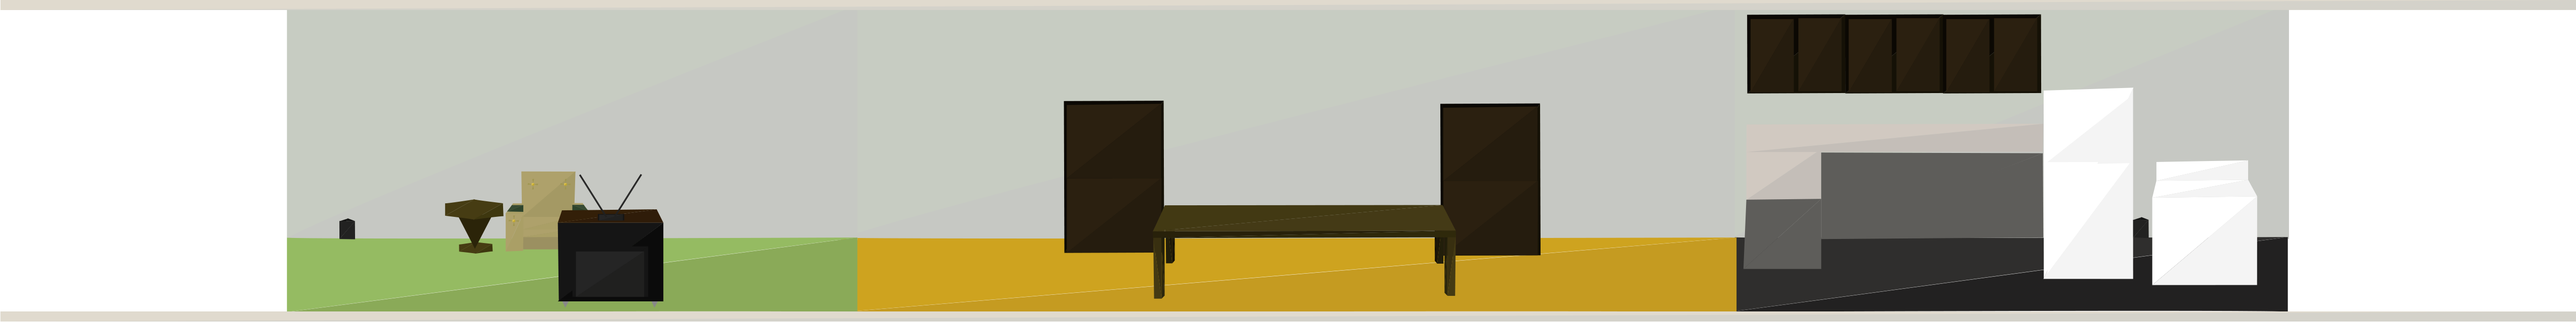
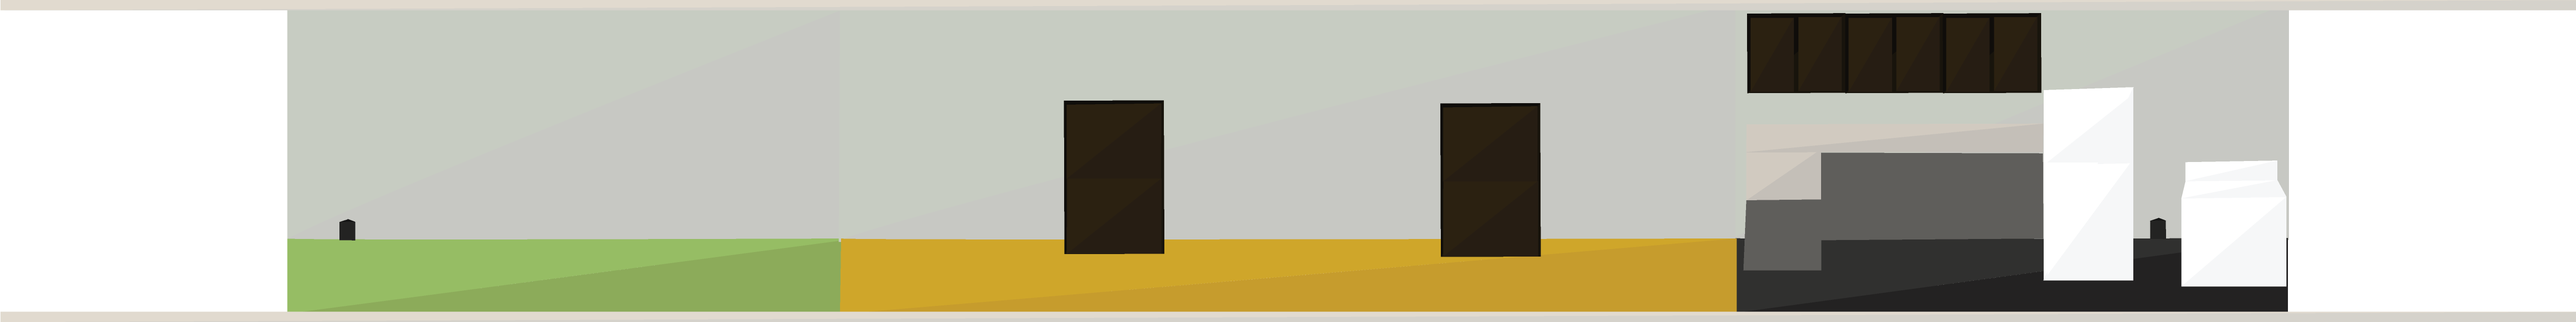
Add owl. Update sprites.

diff --git a/apt-213.js b/apt-213.js
@@ -9,7 +9,8 @@ var manifest = {
 		"tv-chair": "images/table-chair-1f288x161.png",
 		"table-legs": "images/table-legs1f553x51.png",
 		"table-top": "images/table-top1f599x183.png",
-		"cheese": "images/cheese-1f36x29.png"
+		"cheese": "images/cheese-1f36x29.png",
+		"owl": "images/owl-1f132x240.png"
 	},
 	"sounds": {
 	},
@@ -39,6 +40,8 @@ function(context) {
 });
 loading.start();
 
+var owl;
+var cat;
 var player;
 var furniture = [];
 
@@ -88,8 +91,8 @@ function constrainPlayerToFloor(entity) {
 	if (entity.x + entity.width > 4543) {
 		entity.x = 4543 - entity.width;
 	}
-	if (entity.y < 473) {
-		entity.y = 473;
+	if (entity.y < 475) {
+		entity.y = 475;
 	}
 	if (entity.y + entity.height > 618) {
 		entity.y = 618 - entity.height;
@@ -98,19 +101,19 @@ function constrainPlayerToFloor(entity) {
 
 //**************** SCENE 1 ***********************
 function setupScene1() {
-	player = new Splat.AnimatedEntity(673, 540, 40, 8, apt213.images.get("mouse"), -15, -20);
+	player = new Splat.AnimatedEntity(673, 476, 40, 8, apt213.images.get("mouse"), -15, -20);
 	scene1.camera = new Splat.EntityBoxCamera(player, 400, canvas.height, canvas.width/2, canvas.height/2);
 	furniture = [
 		new Splat.Entity(1109, 586, 209, 34), // tv
-		new Splat.Entity(911, 483, 256, 20), // side table
-		new Splat.Entity(2113, 473, 198, 30), // hutch 1
+		new Splat.Entity(911, 488, 256, 25), // side table
+		new Splat.Entity(2113, 473, 198, 32), // hutch 1
 		new Splat.Entity(2290, 581, 23, 13), // table leg front left
 		new Splat.Entity(2314, 512, 18, 11), // table leg back left
 		new Splat.Entity(2868, 579, 21, 9), // table leg front right
 		new Splat.Entity(2848, 515, 18, 9), //table left back right
-		new Splat.Entity(2860, 472, 198, 36), // hutch 2
-		new Splat.Entity(3464, 470, 151, 64), // counter
-		new Splat.Entity(4057, 471, 178, 83), // fridge
+		new Splat.Entity(2860, 472, 198, 38), // hutch 2
+		new Splat.Entity(3464, 473, 151, 64), // counter
+		new Splat.Entity(4057, 474, 178, 83), // fridge
 		new Splat.Entity(4331, 471, 208, 98), // stove
 	];
 	scene1.goal = new Splat.Entity(4269, 472, 31, 9);
@@ -119,7 +122,8 @@ function setupScene1() {
 	scene1.cheese = new Splat.AnimatedEntity(2751, 552, cheeseImg.width, cheeseImg.height, cheeseImg, 0, 0);
 
 	scene1.hasCheese = false;
-	scene1.cat = new Splat.AnimatedEntity(3242, -21, 80, 15, apt213.images.get("cat"), -40, -73);
+	cat = new Splat.AnimatedEntity(3242, -21, 80, 15, apt213.images.get("cat"), -40, -73);
+	owl = new Splat.AnimatedEntity(1046, 523, 100, 20, apt213.images.get("owl"), -20, -220);
 }
 
 function distanceFromCenters(entity1, entity2) {
@@ -139,29 +143,29 @@ scene1 = new Splat.Scene(canvas, function(elapsedMillis) {
 	logMouseClick();
 	handleMovement(elapsedMillis);
 	scene1.cheese.move(elapsedMillis);
-	scene1.cat.move(elapsedMillis);
-	collideWithFurniture(scene1.cat);
+	cat.move(elapsedMillis);
+	collideWithFurniture(cat);
 
 	var chaseRange = 300;
-	if (distanceFromCenters(player, scene1.cat) < chaseRange * chaseRange) {
-		if (player.x < scene1.cat.x) {
-			scene1.cat.vx = -0.7;
+	if (distanceFromCenters(player, cat) < chaseRange * chaseRange) {
+		if (player.x < cat.x) {
+			cat.vx = -0.7;
 		}
-		if (player.x > scene1.cat.x) {
-			scene1.cat.vx = 0.7;
+		if (player.x > cat.x) {
+			cat.vx = 0.7;
 		}
-		if (player.y < scene1.cat.y) {
-			scene1.cat.vy = -0.2;
+		if (player.y < cat.y) {
+			cat.vy = -0.2;
 		}
-		if (player.y > scene1.cat.y) {
-			scene1.cat.vy = 0.2;
+		if (player.y > cat.y) {
+			cat.vy = 0.2;
 		}
 	}
 
 	if (player.collides(scene1.cheese)) {
 		scene1.hasCheese = true;
 	}
-	if (player.collides(scene1.cat)) {
+	if (player.collides(cat)) {
 		player.vx = -20.0;
 		if (scene1.hasCheese) {
 			scene1.hasCheese = false;
@@ -177,8 +181,8 @@ scene1 = new Splat.Scene(canvas, function(elapsedMillis) {
 
 	player.vx *= 0.5;
 	player.vy *= 0.75;
-	scene1.cat.vx *= 0.5;
-	scene1.cat.vy *= 0.75;
+	cat.vx *= 0.5;
+	cat.vy *= 0.75;
 	if (apt213.keyboard.isPressed("left")) {
 		player.vx = -0.7;
 	}
@@ -205,12 +209,13 @@ function(context) {
 	if (!scene1.hasCheese) {
 		scene1.cheese.draw(context);
 	}
-	scene1.cat.draw(context);
 	scene1.goal.draw(context);
 
+	cat.draw(context);
+	owl.draw(context);
 	player.draw(context);
 
-	context.drawImage(apt213.images.get("tv-chair"), 883, 340);
+	context.drawImage(apt213.images.get("tv-chair"), 883, 360);
 	context.drawImage(apt213.images.get("tv"), 1108, 345);
 	context.drawImage(apt213.images.get("table-legs"), 2313, 472);
 	context.drawImage(apt213.images.get("table-top"), 2290, 410);
@@ -218,7 +223,7 @@ function(context) {
 
 //**************** SCENE 2 ***********************
 function setupScene2() {
-	player = scene1.cat;
+	player = cat;
 	scene2.camera = new Splat.EntityBoxCamera(player, 400, canvas.height, canvas.width/2, canvas.height/2);
 }
 
@@ -251,5 +256,11 @@ function(context) {
 		furniture[i].draw(context);
 	}
 
+	owl.draw(context);
 	player.draw(context);
+
+	context.drawImage(apt213.images.get("tv-chair"), 883, 360);
+	context.drawImage(apt213.images.get("tv"), 1108, 345);
+	context.drawImage(apt213.images.get("table-legs"), 2313, 472);
+	context.drawImage(apt213.images.get("table-top"), 2290, 410);
 });
